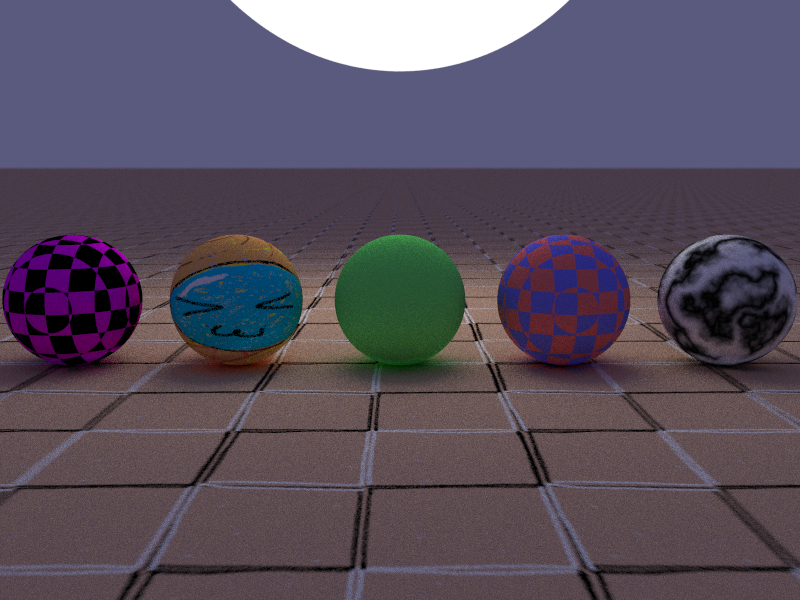
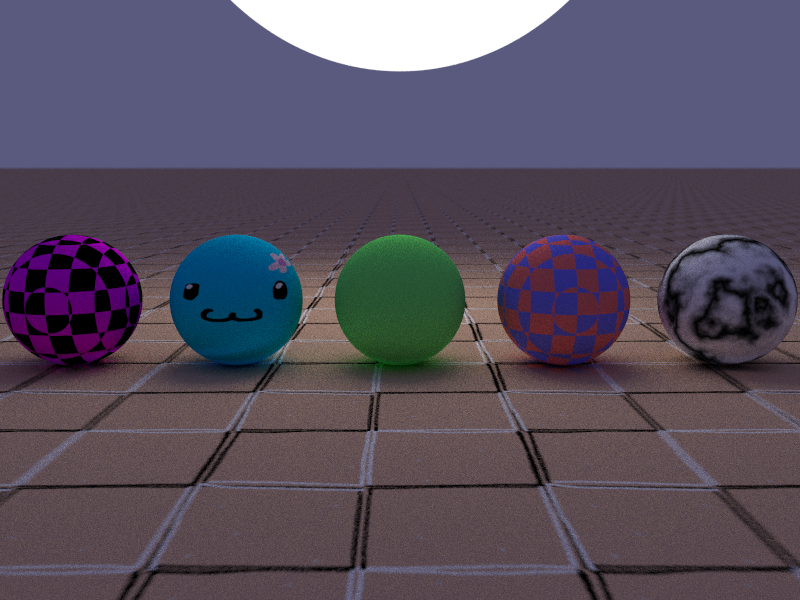
Reverted default scene to be the same as the book. Changed star.png to a cute-face.png so it looks better.

Changed region(s): [[0.2188, 0.39, 0.375, 0.63], [0.8125, 0.39, 1.0, 0.63], [0.1562, 0.45, 0.1875, 0.51]]

diff --git a/src/util/world.rs b/src/util/world.rs
@@ -184,13 +184,11 @@ pub fn random_scene() -> HitableList {
         )),
     ));
 
-    /*
     list.push(Sphere::new(
         Vec3::new(-1000.0, 3000.0, 0.0),
         1500.0,
         DiffuseLight::new(ConstantTexture::new(Vec3::new(1.0, 1.0, 1.0))),
     ));
-
 
     for a in -11..11 {
         for b in -11..11 {
@@ -246,7 +244,6 @@ pub fn random_scene() -> HitableList {
             }
         }
     }
-    */
 
     let choose_image = rng.gen_range(0, 6);
     list.push(Sphere::new(
